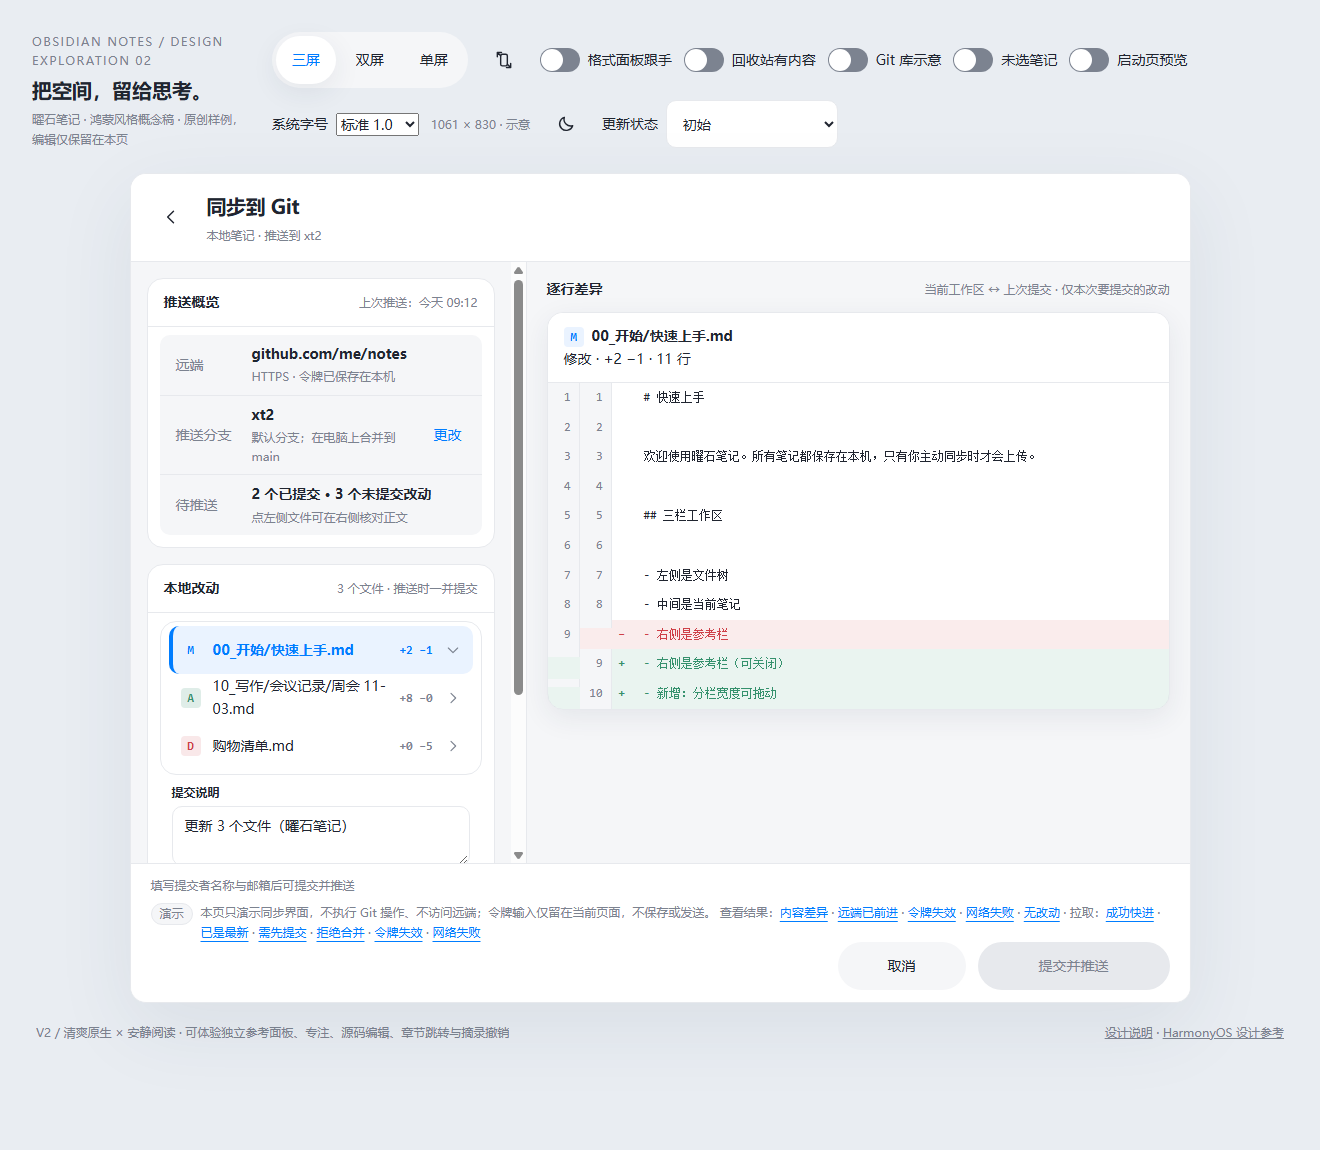
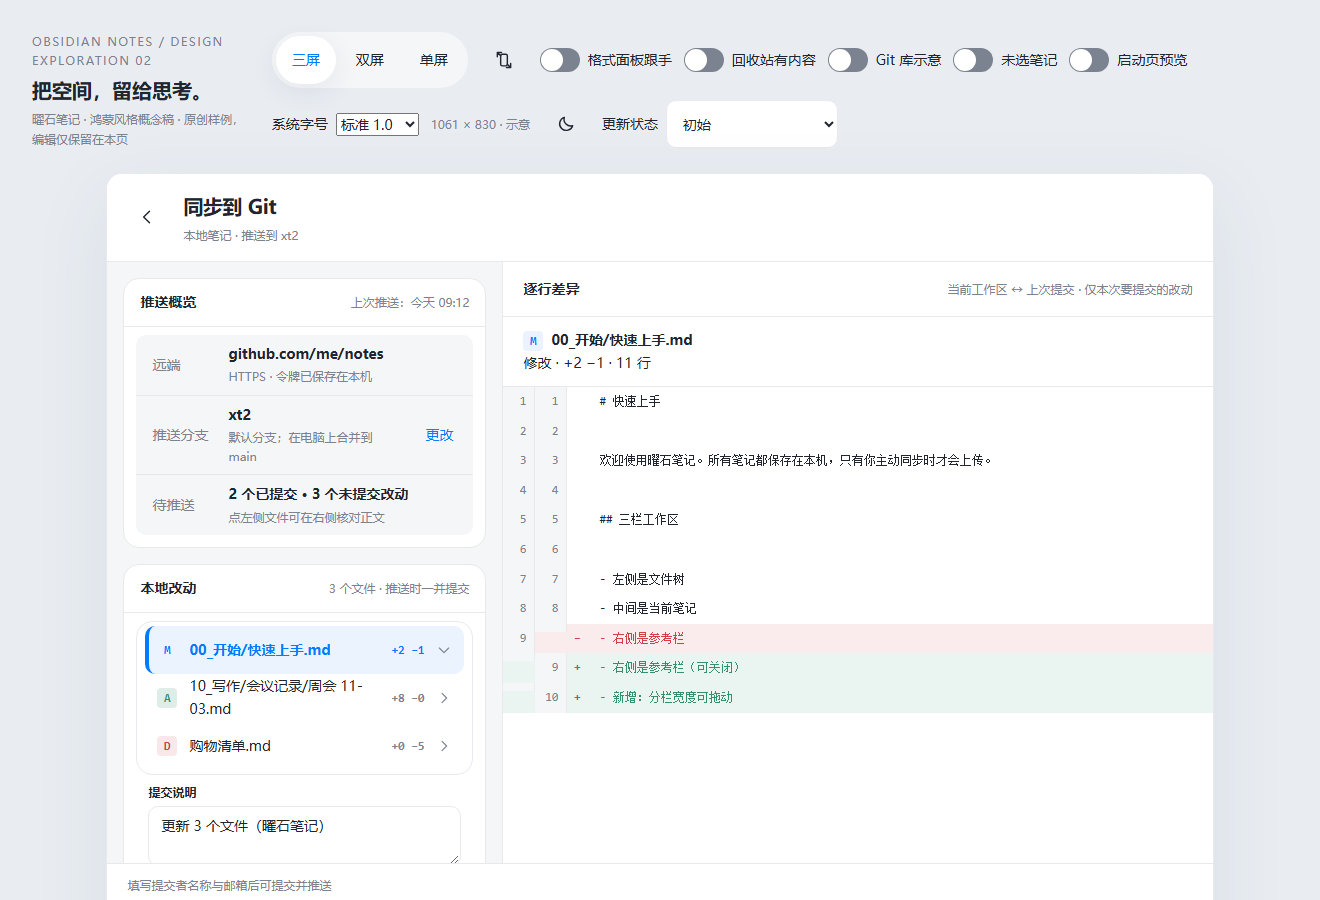
feat: v1.78 Git 同步页右栏铺满（代码查看器，去浮卡留白）

diff --git a/docs/prototype/v2/index.html b/docs/prototype/v2/index.html
@@ -582,7 +582,7 @@ pre.simple-protected::after,table.simple-table.simple-protected::after{content:n
 .sync-page-titles p{margin:var(--s1) 0 0;font-size:var(--caption);color:var(--muted)}
 .sync-layout{display:flex;flex:1;min-height:0}
 .sync-side{width:calc(var(--nav-width) * 1.65);flex:none;overflow:auto;padding:var(--s4);border-right:var(--stroke) solid var(--line);background:var(--nav)}.sync-side .sync-row>span:first-child{width:var(--s16)}.sync-side .sync-file-name{overflow-wrap:anywhere;word-break:break-word}.sync-side .sync-section-head{flex-wrap:wrap;gap:var(--s1)}.sync-side .sync-section-head small{flex-basis:100%}
-.sync-detail{flex:1;min-width:0;overflow:auto;padding:var(--s4) var(--s5);background:var(--nav)}
+.sync-detail{flex:1;min-width:0;display:flex;flex-direction:column;overflow:hidden;padding:0;background:var(--paper)}
 .sync-page-foot{flex:none;padding:var(--s3) var(--s5);border-top:var(--stroke) solid var(--line);background:var(--paper)}
 .sync-page-foot .import-actions{margin:0;gap:var(--s3)}
 .sync-page-foot .import-secondary{min-width:calc(var(--s16) * 2)}
@@ -627,16 +627,18 @@ pre.simple-protected::after,table.simple-table.simple-protected::after{content:n
 .sync-settings[open]>summary{border-bottom:var(--stroke) solid var(--line)}
 .sync-settings .sync-card{border:0;border-radius:0}
 /* Right pane: a focused code viewer with a file header card. */
-.sync-diff-pane-head{display:flex;align-items:baseline;justify-content:space-between;gap:var(--s3);margin-bottom:var(--s3)}
+.sync-diff-pane-head{display:flex;align-items:baseline;justify-content:space-between;gap:var(--s3);padding:var(--s4) var(--s5);border-bottom:var(--stroke) solid var(--line);flex:none}
 .sync-diff-pane-head h3{margin:0;font-size:var(--small);font-weight:600}
 .sync-diff-pane-head p{margin:0;font-size:var(--caption);color:var(--muted)}
-.sync-file-diff{margin:0;border:var(--stroke) solid var(--line);border-radius:var(--r);background:var(--paper);overflow:hidden;box-shadow:var(--float-shadow)}
-.sync-file-diff+.sync-file-diff{margin-top:var(--s4)}
-.sync-file-diff>.sync-diff-head{padding:var(--s3) var(--s4);background:var(--paper);border-bottom:var(--stroke) solid var(--line);flex-wrap:wrap}
+.sync-detail>.sync-diff-pane-head+.sync-file-diff,.sync-detail>.sync-diff-pane-head+.sync-diff-placeholder{border-top:0}
+.sync-detail .sync-file-diff{border:0;border-radius:0;box-shadow:none;background:var(--paper);flex:1;min-height:0;margin:0;display:flex;flex-direction:column}
+.sync-detail .sync-file-diff+.sync-file-diff{margin-top:0}
+.sync-file-diff>.sync-diff-head{padding:var(--s3) var(--s5);background:var(--paper);border-bottom:var(--stroke) solid var(--line);flex-wrap:wrap;flex:none}
 .sync-file-diff>.sync-diff-head strong{font-size:var(--small);overflow-wrap:anywhere}
 .sync-diff-title{display:flex;align-items:center;gap:var(--s2);min-width:0}
 .sync-diff-title strong{overflow:hidden;text-overflow:ellipsis;white-space:nowrap}
-.sync-diff-lines{max-height:none;overflow:auto;font:var(--caption)/1.8 var(--mono)}
+.sync-detail .sync-diff-lines{flex:1;min-height:0;max-height:none}
+.sync-diff-lines{overflow:auto;font:var(--caption)/1.8 var(--mono)}
 .sync-diff-line{display:flex;align-items:flex-start;min-height:calc(var(--s4) + var(--s1))}
 .sync-diff-line .dl-no{flex:none;width:calc(var(--s6) + var(--s2));padding:var(--s1) var(--s2);text-align:right;color:var(--muted);user-select:none;background:var(--nav);border-right:var(--stroke) solid var(--line)}
 .sync-diff-line .dl-mark{flex:none;width:var(--s5);padding:var(--s1) 0;text-align:center;font-weight:700;user-select:none}
@@ -647,6 +649,7 @@ pre.simple-protected::after,table.simple-table.simple-protected::after{content:n
 .sync-diff-line.add .dl-mark,.sync-diff-line.add .dl-text{color:var(--green)}
 .sync-diff-line.ctx .dl-text{color:var(--ink)}
 .sync-diff-line.ctx .dl-mark{color:var(--muted)}
+.sync-detail .sync-diff-placeholder{flex:1;min-height:0}
 .sync-diff-placeholder{display:grid;place-items:center;gap:var(--s2);min-height:calc(var(--s16) * 3);padding:var(--s6);border:var(--stroke) dashed var(--line);border-radius:var(--r);color:var(--muted);text-align:center;background:var(--paper)}
 .sync-diff-placeholder svg{width:var(--s10);height:var(--s10)}
 .sync-diff-placeholder p{margin:0;font-size:var(--small);line-height:1.6}

diff --git a/docs/prototype/v2/Git同步页设计.md b/docs/prototype/v2/Git同步页设计.md
@@ -1,6 +1,6 @@
-# Git 同步页设计（v1.27 · v1.73 · v1.75 · v1.76 · v1.77）
+# Git 同步页设计（v1.27 · v1.73 · v1.75 · v1.76 · v1.77 · v1.78）
 
-> 现行设计规格，服务 [v1.27 推送](../../releases/v1.27/需求文档.md)、[v1.73 手动拉取](../../releases/v1.73/需求文档.md)、[v1.75 逐行差异](../../releases/v1.75/需求文档.md)、[v1.76 全屏页](../../releases/v1.76/需求文档.md)与 [v1.77 视觉重构](../../releases/v1.77/需求文档.md)。原型入口：[v2 原型](index.html) → 打开演示开关「Git 库示意」→ 顶栏同步按钮（单屏：更多菜单 →「同步到 Git」），或用 `?ui=2&view=sync` 直达；底部演示脚注「查看结果 → 内容差异」直接展开一例。
+> 现行设计规格，服务 [v1.27 推送](../../releases/v1.27/需求文档.md)、[v1.73 手动拉取](../../releases/v1.73/需求文档.md)、[v1.75 逐行差异](../../releases/v1.75/需求文档.md)、[v1.76 全屏页](../../releases/v1.76/需求文档.md)、[v1.77 视觉重构](../../releases/v1.77/需求文档.md)与 [v1.78 右栏铺满](../../releases/v1.78/需求文档.md)。原型入口：[v2 原型](index.html) → 打开演示开关「Git 库示意」→ 顶栏同步按钮（单屏：更多菜单 →「同步到 Git」），或用 `?ui=2&view=sync` 直达；底部演示脚注「查看结果 → 内容差异」直接展开一例。
 > 同步语义（push-only、仅快进、手机不合并）见 [v0.3 §3.2](../../releases/v0.3/需求文档.md)；拉取语义（拒绝合并、仅快进）见 [v1.73 需求](../../releases/v1.73/需求文档.md)。v1.76 起同步是**占满内容区的独立全屏页**（与「设置与关于」同级），不再是浮窗 / 半模态，也不再与导入、分享共用弹窗外壳。
 
 ## 1. 思路
@@ -39,13 +39,14 @@
 
 ## 2A. 内容级 diff（全屏页右栏）
 
-同步页的「本地改动」清单回答「哪些文件变了」，逐行差异回答「每个文件具体改了什么」。用户在推送前就能逐文件核对写入远端的正文，避免误提交敏感或错误内容。v1.76 起差异不再挤在浮窗内就地展开，而是占用**整页右半栏**，与左侧清单并排，长文档能看得更完整。
+同步页的「本地改动」清单回答「哪些文件变了」，逐行差异回答「每个文件具体改了什么」。用户在推送前就能逐文件核对写入远端的正文，避免误提交敏感或错误内容。v1.76 起差异不再挤在浮窗内就地展开，而是占用**整页右半栏**，与左侧清单并排，长文档能看得更完整。v1.78 起右栏**整栏铺满**：diff 不再是一张浮在灰底上、四周留边、下方空白的卡片，而是贴左右边缘、占满标题行到底部操作栏高度的代码查看器（详见下方「右栏铺满」与 §5 对应行）。
 
 - **入口与口径**：左侧清单每个改动文件是整行按钮（`sync-file-toggle`），点按在**右侧专设的 `sync-detail` 栏**显示该文件的行级 diff；再次点按收起，同一时刻只有一个文件选中（手风琴）。选中行高亮（`selected`）。口径固定为**当前工作区 vs 上次提交**，只覆盖未提交改动，与清单一一对应；已提交待推送的提交、远端跟踪分支的净变化都不在此视图内。推送分支、提交说明、拉取等其它区域不受影响。
 - **默认选中（v1.77）**：进入同步页即自动选中**第一个有 diff 的改动文件**——原型 `openGitSync` 从 `gitSyncChanges` 找首个有 `gitSyncFileDiff` 的路径写入 `openFile`，原生 `autoSelectFirstDiff()` 在 `loadFileDiffs()` 回填缓存后设置 `expandedDiffPath` / `activeFileDiff`。右栏直接进入代码查看状态，不再出现「半屏空白 + 一句提示」像没加载的样子。手动点选其它文件仍是手风琴单开，再点当前文件可收起。
 - **占位引导**：只有两种情况显示——用户主动收起当前文件，或本地没有未提交改动（「暂无逐行差异可看」）。切换选中会重渲染右栏，占位卡随之消失 / 出现；提交说明与提交者字段是左栏独立控件，不受影响、草稿不丢。
 - **三态行**：M 显示「修改：上次提交 → 当前工作区」；A 显示「新文件（本次新增）」，全部为新增行；D 显示「本次删除」，全部为删除行。文件行行尾给出 `+N −M` 增删统计，diff 头给出文件路径与总差异行数。
-- **diff 排版**：unified 单栏，每行四列——旧行号、新行号、`−`/`+`/空格标记、正文。删除/新增/未改动分别整行着红/绿/中性底；未改动行两侧行号都有值，删除行只有旧号、新增行只有新号。等宽字体、长行换行；两个行号列用 `--nav` 底形成独立的「代码栏」，正文落在白 / 淡红 / 淡绿底上；卡内不再限高，由右栏 `sync-detail` 独立滚动，不挤压左侧清单与提交说明。
+- **diff 排版**：unified 单栏，每行四列——旧行号、新行号、`−`/`+`/空格标记、正文。删除/新增/未改动分别整行着红/绿/中性底；未改动行两侧行号都有值，删除行只有旧号、新增行只有新号。等宽字体、长行换行；两个行号列用 `--nav` 底形成独立的「代码栏」，正文落在白 / 淡红 / 淡绿底上。
+- **右栏铺满（v1.78）**：右栏容器 `.sync-detail` 是 flex 列、`padding:0`、`--paper` 底、`overflow:hidden`；标题行贴顶并带底部分隔线；`.sync-file-diff` 去边框 / 圆角 / 阴影 / 外边距，`flex:1;min-height:0` 从标题行一直铺到底部操作栏，文件头固定、`.sync-diff-lines` `flex:1` 占满剩余高度并内部滚动，空态占位卡同样 `flex:1`。不再有灰边、浮卡阴影与卡片下方空白。原生 `DiffPane()` 去 padding、`DiffPanel()` 去 `borderRadius` / `bg_secondary` / 上下 padding 改 `bg_page`，`layoutWeight(1)` 保留占满剩余高度。
 - **数据边界（原型）**：`gitSyncFileDiff` 存三个演示文件的前后文本，未提交改动清单本身仍来自 `gitSyncChanges`；`gitSyncUnifiedDiff` 复用 [编辑冲突对比](index.html) 的 `mismatchDiffRows`（LCS）算法产出增删/上下文行；`gitSyncDiffPaneHtml` 负责右栏渲染。原型不读取本地文件、不执行 Git、不访问远端，diff 文本随刷新恢复；底部「内容差异」演示按钮展开第一例。`openFile` 是唯一控制选中状态的字段，打开同步页即清空。
 - **视觉 token**：红底 `--diff-del-bg` + 文字 `--danger`，绿底 `--diff-add-bg` + 文字 `--green`，行号 `--muted`；沿用 §5 通用 token，不散写颜色值。
 
@@ -105,7 +106,7 @@
 | 改动标记 | `--s5` 方块、`--s1` 圆角、等宽字母：M `--blue-soft`/`--blue`，A `--green` 16%，D `--danger` 12% |
 | 改动清单 | 左栏 `sync-side`：宽 `calc(--nav-width * 1.65)`、`--nav` 底、右侧细线、`overflow:auto`；行高 `--touch`，文件行为整行按钮，选中态 `--blue-soft`/`--blue` **加 `--s1` 品牌色左边轨**（不只靠浅底色），行尾增删统计 `--caption` 等宽 `--muted` |
 | 提交字段（v1.77） | `.sync-field`：标签 `--caption` 600 + 必填标记 `--danger`，输入框白底 `--line` 描边、`--small-r` 圆角、`min-height: --touch`；原生为 `bg_secondary` 底 + `Radius.control` 圆角的 TextInput，标签显式写「提交者名称 · 必填 / 提交者邮箱 · 必填」。页脚在主按钮禁用时显示原因「填写提交者名称与邮箱后可提交并推送」，不让灰色按钮无解释。 |
-| 逐行 diff | 右栏 `sync-detail` 独立滚动区：小标题「逐行差异」+ 口径说明「当前工作区 ↔ 上次提交 · 仅本次要提交的改动」；每文件一白卡 `--line` 描边 + `--r` 圆角 + `--float-shadow`；卡头含 M/A/D 徽章 + 文件名 + `+N −M` 统计 + 三态文案；行四列：双行号列宽 `calc(--s6 + --s2)` 右对齐 `--muted` 且带 `--nav` 底形成代码栏、标记列 `--s5`、正文列 `pre-wrap`；删/增整行 `--diff-del-bg`/`--diff-add-bg`，标记与正文 `--danger`/`--green`；等宽 `--caption/1.8`，右栏独立滚动。无改动时虚线占位卡 |
+| 逐行 diff（v1.78 铺满） | 右栏 `sync-detail` 是 flex 列、`padding:0`、`--paper` 底、`overflow:hidden`，**整栏铺满、无浮卡留边**：标题行「逐行差异」+ 口径说明「当前工作区 ↔ 上次提交 · 仅本次要提交的改动」贴顶并带 `--line` 底部分隔线；diff 卡去边框 / 圆角 / 阴影 / 外边距，`flex:1;min-height:0` 铺满，卡头含 M/A/D 徽章 + 文件名 + `+N −M` 统计 + 三态文案（固定不随滚）；行四列：双行号列宽 `calc(--s6 + --s2)` 右对齐 `--muted` 且带 `--nav` 底形成代码栏、标记列 `--s5`、正文列 `pre-wrap`；删/增整行 `--diff-del-bg`/`--diff-add-bg`，标记与正文 `--danger`/`--green`；等宽 `--caption/1.8`，`.sync-diff-lines` `flex:1` 占满剩余高度并内部滚动。无改动时虚线占位卡同样 `flex:1` 铺满。原生 `DiffPane()` 无 padding、`DiffPanel()` `bg_page` 融入页面 + `layoutWeight(1)`。 |
 | 步骤 | `--nav` 底卡；圆点 `--s4`：未开始描边、进行中品牌色旋转、完成 `--green` 实心 |
 | 结果卡 | 成功 `--green` 12% 底，失败 `--danger` 9% 底；图标 `--s6`；操作为文字按钮 |
 | 落后提示 | `.sync-behind`：`--danger` 9% 底、`--danger` 文字；已是最新提示 `.sync-status-msg`：`--blue-soft` 底；均 `--small`、圆角 `--r` |

diff --git a/docs/releases/v1.78/需求文档.md b/docs/releases/v1.78/需求文档.md
@@ -1,0 +1,50 @@
+# v1.78 需求文档 —— Git 同步页右栏铺满（代码查看器）
+
+> 状态：已实现（2026-11-16）。设计真源：[Git 同步页设计](../../prototype/v2/Git同步页设计.md)（§2 结构图、§2A 逐行差异、§5 组件表）；原型入口 `?ui=2&view=sync`。需求来源：用户 2026-11-16 看到 v1.77 浅色截图后反馈「右边你为什么不占满呢？」——v1.77 虽有默认差异，但右栏 diff 仍是浮在灰底上的一张卡：四周留边、圆角 + 阴影、卡高只包内容、下方一大片空白，不像铺满的查看器。本版只改右栏的呈现容器，不改任何 Git 语义、diff 数据或左栏。
+
+## 1. 版本定位
+
+v1.77 让右栏「有内容」，但右栏本身还是「卡片 + 背景」两段式：卡片尺寸随内容收缩，留白和阴影让它看起来是一块贴上去的面板，而不是铺满的代码查看器。本版把右栏改成一个从标题行到底部操作栏、从左到右边缘连续铺满的查看器：去掉 diff 卡的边框 / 圆角 / 阴影 / 外边距，标题行带底部分隔线贴顶，行区占满剩余高度并独立滚动。左栏卡片分组、默认选中、必填提示、单屏堆叠、深浅色、全部 Git 流程沿用 v1.77 / v1.76 / v1.75，不改。
+
+## 2. 完成判定
+
+打开 Git 库同步页 → 右栏「逐行差异」标题行贴顶并有底部分隔线 → 其下的文件头 + 增删行从右栏左边缘一路铺到右边缘、从上到下占满剩余高度（无灰边、无浮卡圆角 / 阴影、无卡下方大块空白）→ 内容超出时行区内部滚动、标题行和文件头固定 → 左栏与底部操作栏观感不变，深色模式可读，单屏上下堆叠、返回 / 忙碌保护沿用。
+
+## 3. 需求清单
+
+| # | 需求 | 验收点 |
+|---|------|--------|
+| 78.1 | **原型右栏铺满** | `.sync-detail` 改为 flex 列、无内边距、`--paper` 底、`overflow:hidden`；标题行 `.sync-diff-pane-head` 贴顶带底部分隔线；`.sync-file-diff` 去边框 / 圆角 / 阴影 / 外边距，`flex:1` + `min-height:0`，头行贴顶、`.sync-diff-lines` `flex:1` 占满并内部滚动；空态 `.sync-diff-placeholder` 同样 `flex:1`。单屏 `.window.phone` 沿用上下堆叠。 |
+| 78.2 | **原生右栏铺满** | `GitSyncDialog.DiffPane()` 去左右 / 顶部 `padding`（改 `padding(0)`），标题行自带四边内边距 + 底部分隔线；`DiffPanel()` 去 `borderRadius` / `bg_secondary` / 上下 `padding`，改 `bg_page` 融入页面、保留 `layoutWeight(1)`；行区 `Scroll().layoutWeight(1)` 内部滚动，行号列底色与每行左右内边距保留。 |
+| 78.3 | **测试 / 截图同步** | `test_prototype_git_diff.mjs` 的 v1.77 契约块追加三条铺满断言（flex 列 / 无浮卡 / 行区 flex），10/10；截图重新以 CDP 真实渲染归档为 `01_全屏页_浅色_修改文件差异.png`、`02_全屏页_深色_修改文件差异.png`。 |
+
+## 4. 明确不做
+
+- 不改 diff 数据口径（HEAD ↔ 工作区未提交改动）、native `getFileDiffs`、两份 `Index.d.ts`、`GitNativeService`。
+- 不改左栏卡片分组 / 提交者必填 / 主按钮禁用原因 / 换行规则，不改底部操作栏。
+- 不改 push-only、仅快进 pull、分支编辑、令牌重试流程与隐私边界（路径 / 正文不进日志）。
+- 不改同步页之外的页面 / 弹窗视觉。
+
+## 5. 技术约束与依赖
+
+- 原型右栏从「卡片随内容收缩」改成「容器 flex 铺满」：`.sync-detail` 必须 `display:flex;flex-direction:column;overflow:hidden`，子级 `.sync-file-diff` 才有 `flex:1` 参照高度，`.sync-diff-lines` 才能内部滚动；`.hidden`（`display:none!important`）继续隐藏未选文件，铺满只作用于当前显示的那一张。
+- ArkTS：`DiffPane()` 去掉 padding 后，标题行必须自带 `padding` + `border({ width: { bottom: 1 } })`，否则贴边；`@Builder` 调用不能链式加修饰符。`DiffPanel()` 去掉浮卡后用 `bg_page` 与外层同底，`layoutWeight(1)` 保留以占满剩余高度。
+- 颜色 / 间距只引用 token（`app.color.*`、`Tokens`），不散写数值；原型改样式后同步截图。
+- 真机验收（API24 / XT2）由用户执行后回填 §6.2。
+
+## 6. 验收记录
+
+### 6.1 本地实现与自动验证（2026-11-16）
+
+- **78.1 原型**：右栏改为 flex 铺满，diff 卡去浮卡样式、行区 flex 撑满；CDP 渲染确认浅色 / 深色右栏从标题到底部连续铺满，无灰边与卡下空白。
+- **78.2 原生**：`GitSyncDialog` 的 `DiffPane()` / `DiffPanel()` 同步去留边与浮卡；`tools/build.ps1` 签名 HAP（arm64-v8a，调试签名）BUILD SUCCESSFUL（2026-11-16）。
+- **78.3 测试 / 截图**：`test_prototype_git_diff.mjs` 补三条铺满断言，10/10；相关九套测试合计 174 项全过（含 `test_git_diff_native_ui` 9/9、`test_git_sync_badge` 7/7、`test_wide_dialog_window_bounds` 5/5、`test_git_sync_dialog` 14/14、`test_prototype_v2_url` 112/112、`test_sync_page_design_tokens` 2/2、`test_sync_page_git_auth` 11/11、`test_v2_token_sync` 4/4）；深浅截图重新归档至 `截图/Git同步逐行差异/`。
+- **全仓回归**：`tools/tests/*.mjs` 全跑 1364 测 1353 过、11 失败，11 项与 v1.77 §6.1 记录的既有基线逐项一致（品牌图标、critical、Icon allowlist ×2、menu、物理下沿、备份 ×2、v1.58 统计 ×3），本版零新增失败。
+- **隐私**：沿用 v1.75，native 与 ETS 侧均不日志化文件路径 / diff 正文（硬约束 16）。
+
+### 6.2 API24 / XT2 真机验收（待用户）
+
+- [ ] 右栏 diff 贴左右边缘、占满标题行到底部操作栏的高度，无浮卡阴影与卡下空白
+- [ ] 差异行数多时行区内部滚动、标题行与文件头不随滚
+- [ ] 深色模式铺满后 diff 红绿与文字可读
+- [ ] 单屏上下堆叠、返回 / 忙碌保护、推送 / 拉取流程与 v1.77 一致

diff --git a/docs/releases/实施总清单.md b/docs/releases/实施总清单.md
@@ -51,6 +51,8 @@
 
 > **2026-11-16 用户反馈立项 [v1.77](v1.77/需求文档.md)：Git 同步页视觉重构**：用户看 v1.76 全屏页真机截图后反馈「太丑了」——右栏未选文件前一大片空白、左栏灰条平铺无分组、主按钮灰色无原因。本版进入页面即默认选中首个差异文件，左栏改「推送概览 / 本地改动」两张白卡，diff 卡头加徽章与增删统计、行号列加底色，提交者字段标「必填」并在主按钮旁写明禁用原因；顺带修复 `?ui=2&view=sync` 直达失效。原型 / 原生 / 设计文档 / 截图 / 契约测试已同步，签名 HAP BUILD SUCCESSFUL；API24 / XT2 真机待用户，证据见 [v1.77 §6](v1.77/需求文档.md#6-验收记录)。
 
+> **2026-11-16 用户反馈立项 [v1.78](v1.78/需求文档.md)：Git 同步页右栏铺满**：用户看 v1.77 浅色截图后反馈「右边你为什么不占满呢？」——右栏 diff 仍是灰底上的浮卡，四周留边、下方大片空白。本版把右栏改成贴边、撑满高度、行区独立滚动的代码查看器：原型 `.sync-detail` 改 flex 列铺满、diff 卡去边框 / 圆角 / 阴影；原生 `GitSyncDialog` 的 `DiffPane()` / `DiffPanel()` 去留边与浮卡。原型 / 原生 / 设计文档 / 截图 / 契约测试已同步，签名 HAP BUILD SUCCESSFUL；API24 / XT2 真机待用户，证据见 [v1.78 §6](v1.78/需求文档.md#6-验收记录)。
+
 ## 本次执行：侧栏顶部信息层级精简（用户指定，2026-11-15）
 
 - [ ] [v1.67](v1.67/需求文档.md)：主侧栏已迁移库名标题、单处数量、整行搜索、文件 / 章节操作行、汉堡导航与统计入口；unsigned arm64-v8a HAP 构建通过。今日笔记操作依赖尚未实现的 v1.59 59.4，自动测试未运行，模拟器与 API24 / XT2 待验；无发布验收。
